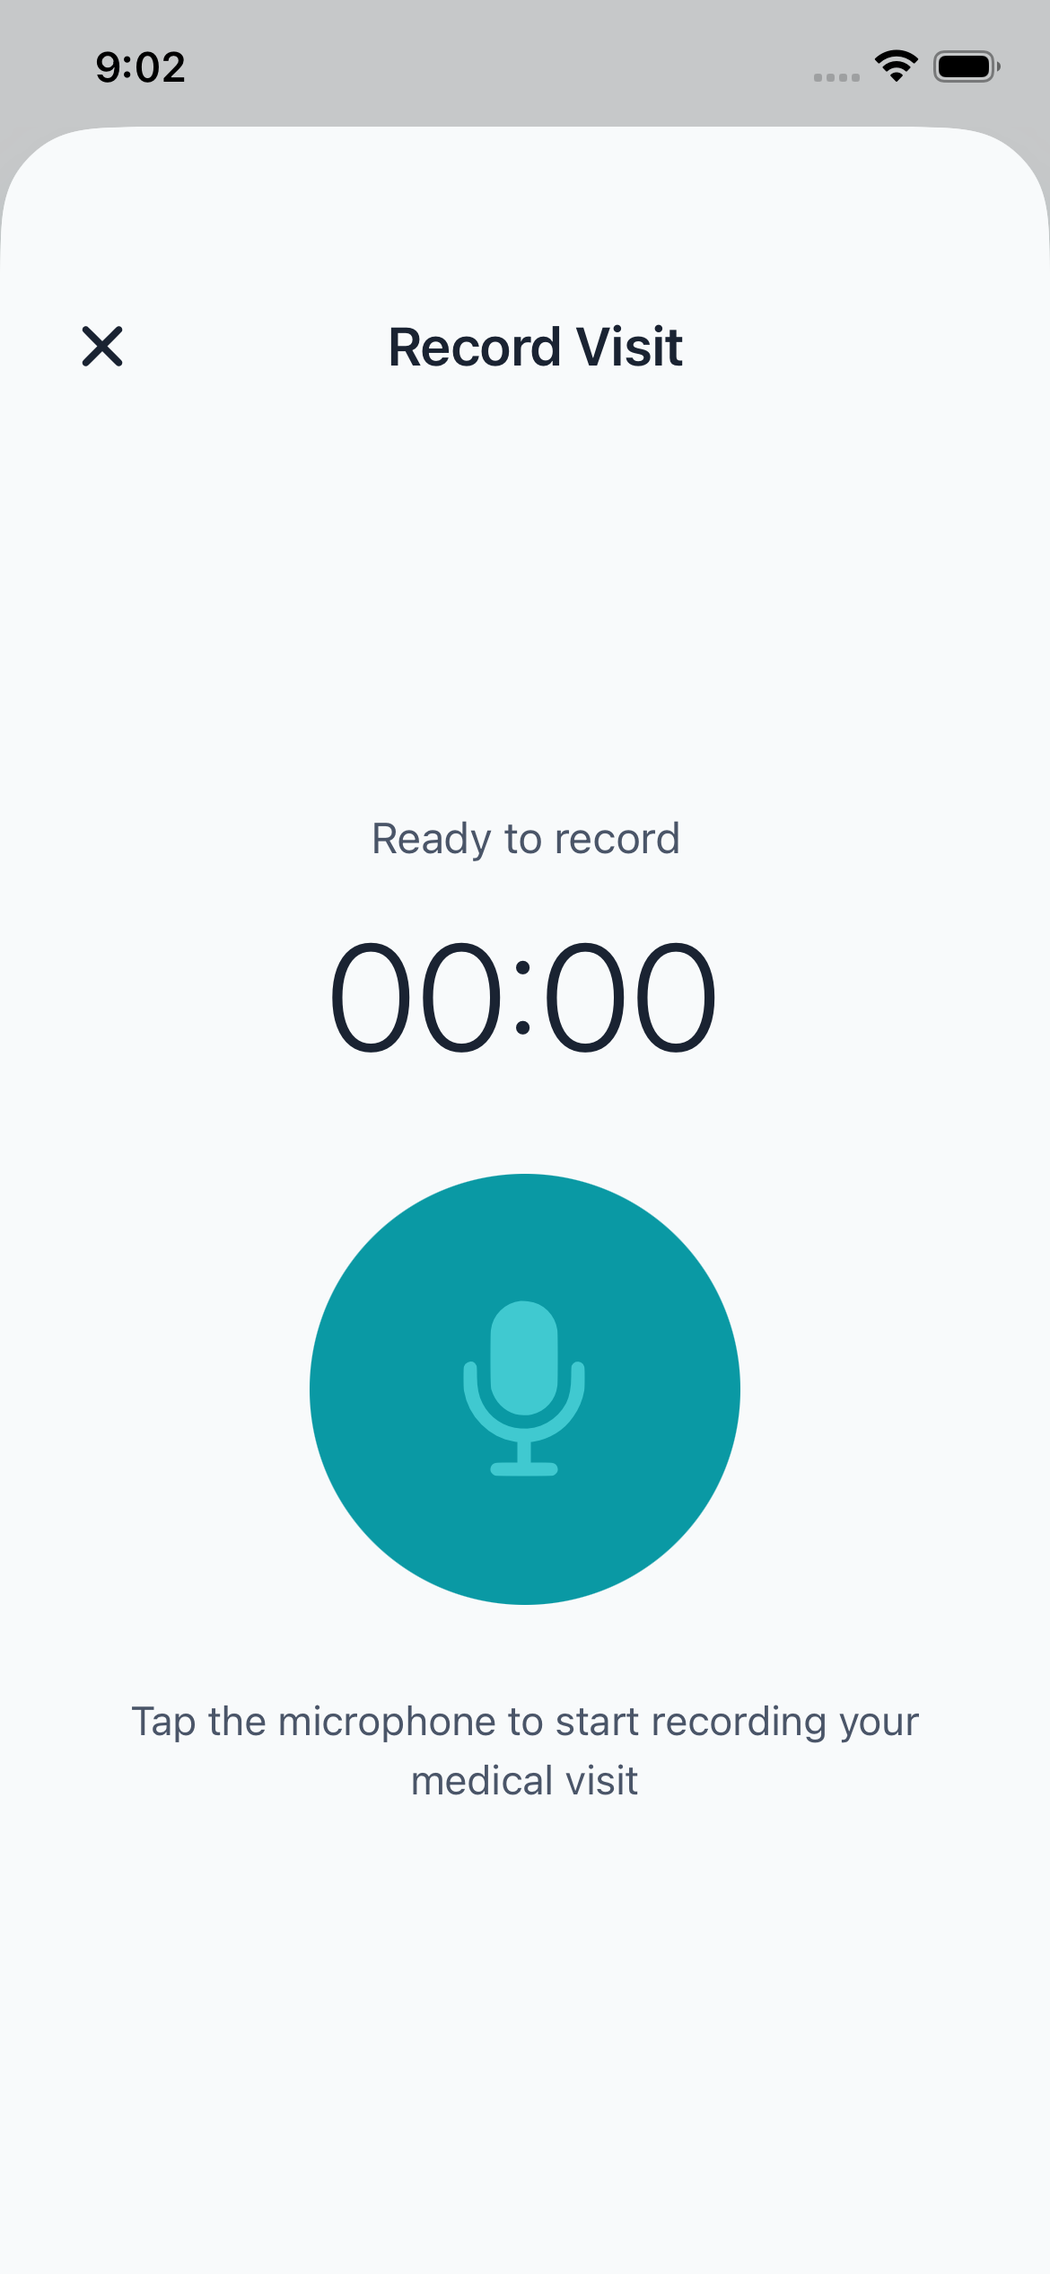
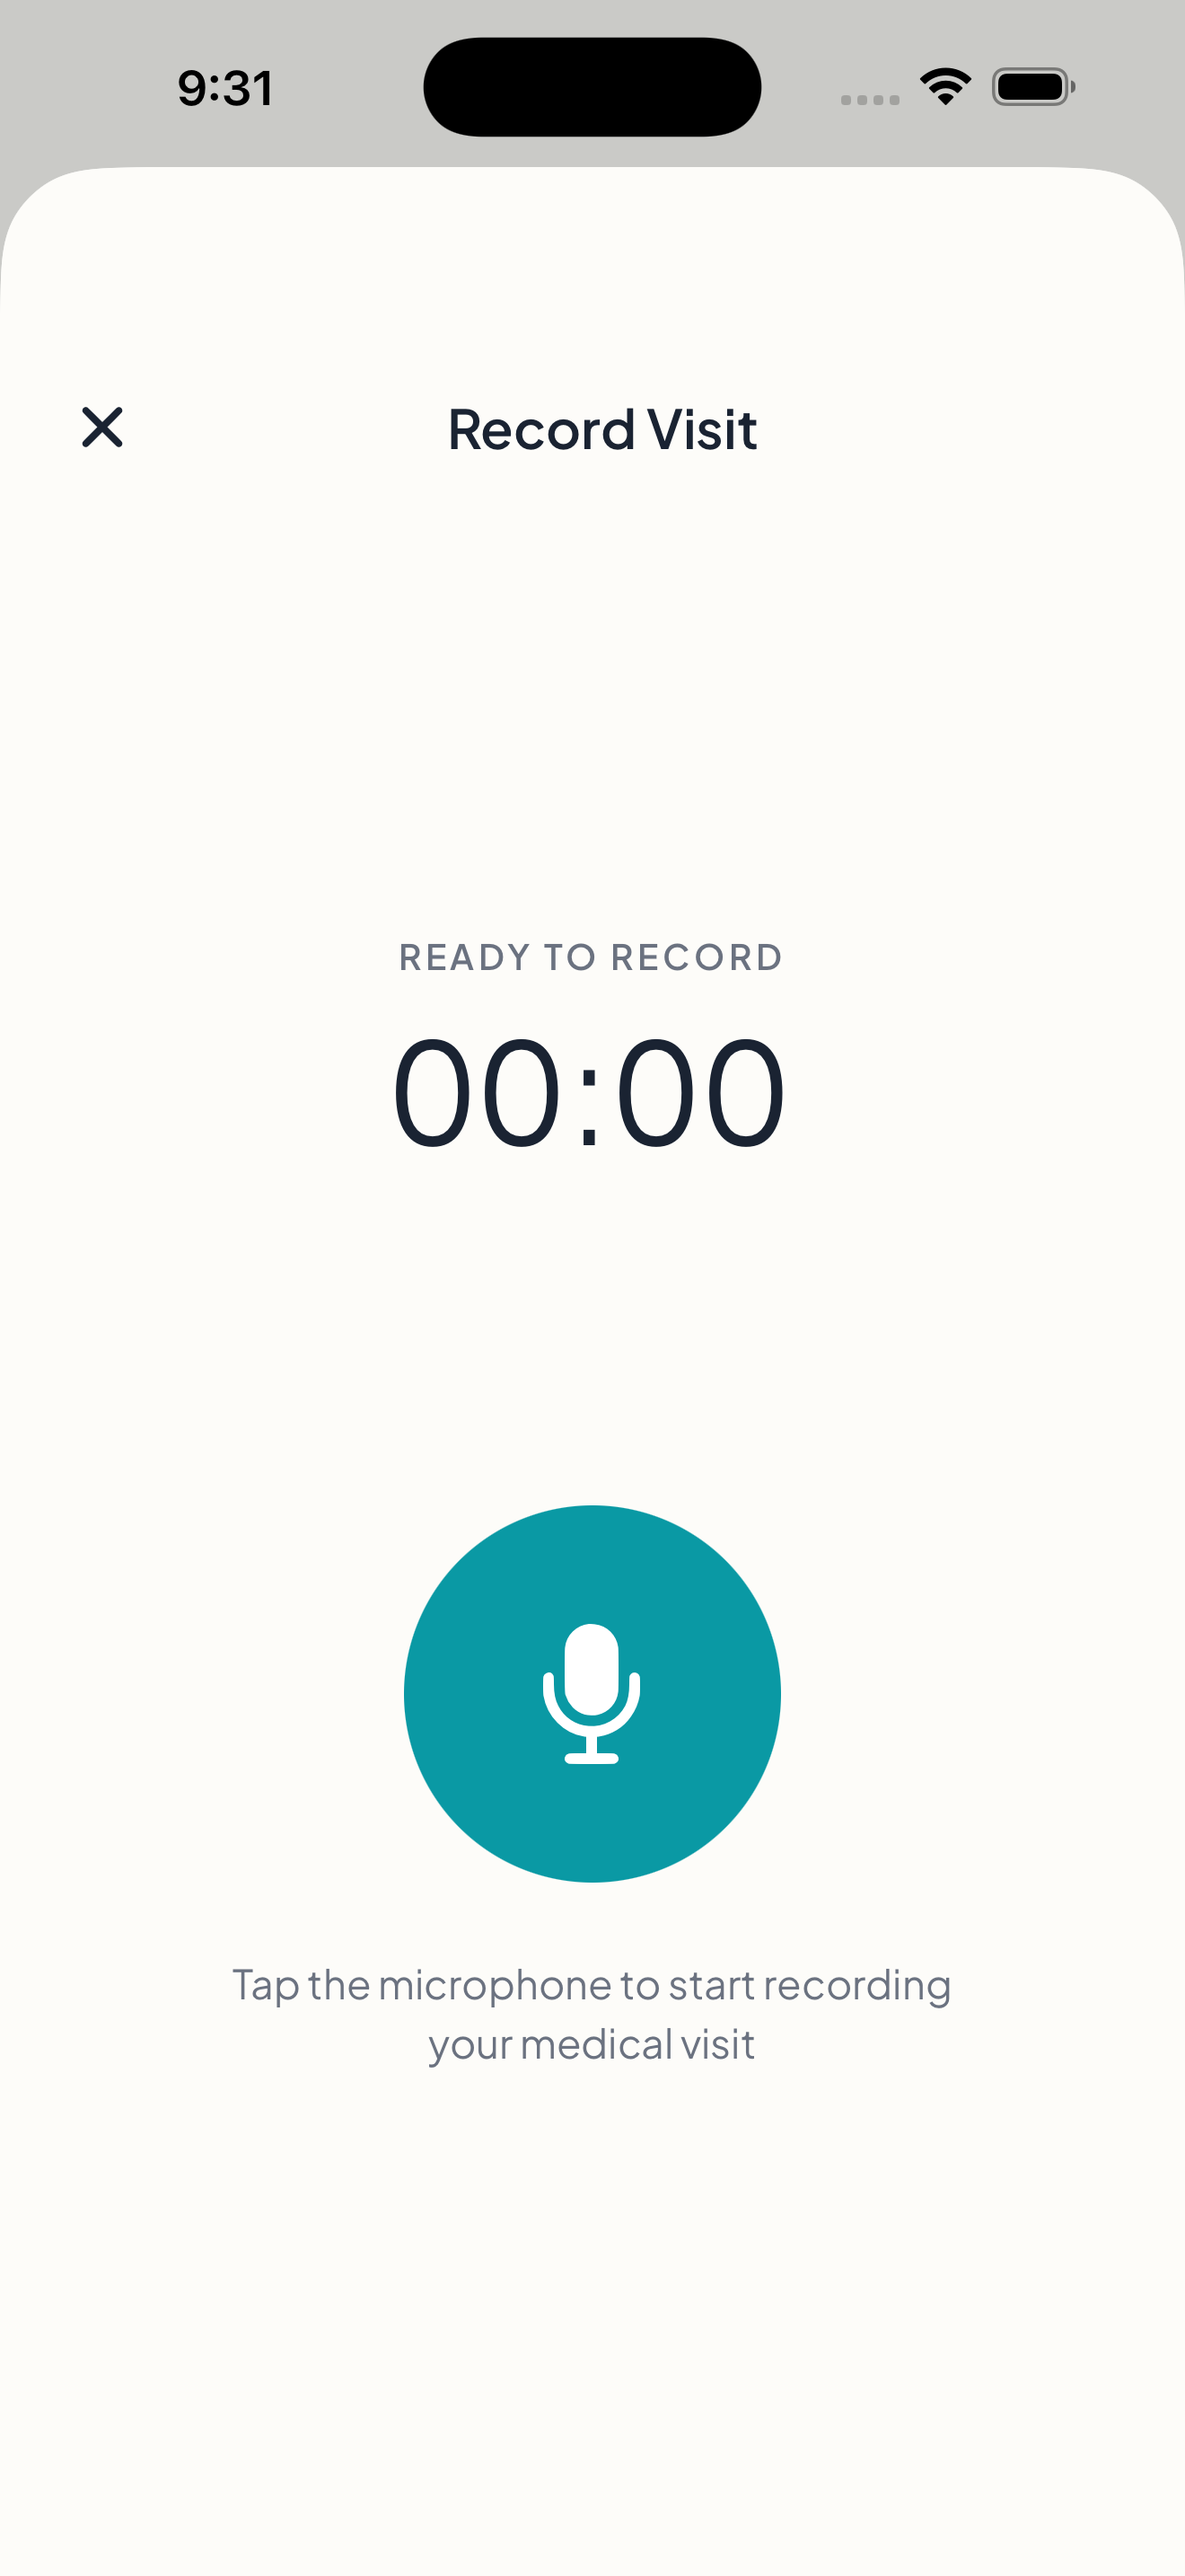
Update app screenshots with fresh simulator captures for landing page and App Store
Replaces all 11 outdated app screenshots in web-portal/public/images with current
iPhone 17 Pro Max simulator captures. Adds 6 device-framed App Store mockups with
marketing captions to docs/app-store-screenshots/.

diff --git a/docs/app-store-screenshots/README.md b/docs/app-store-screenshots/README.md
@@ -1,0 +1,35 @@
+# LumiMD App Store Screenshots
+
+App Store-ready device-framed screenshot mockups for LumiMD (6.7" iPhone display).
+
+## Generated Mockups
+
+All mockups are **1320x2868 pixels** (Apple's required 6.7" display size).
+
+| # | Filename | Caption | Subtitle |
+|---|----------|---------|----------|
+| 1 | `mockup_01_home.png` | Your Health, At a Glance | Track visits, meds, and action items in one place |
+| 2 | `mockup_02_record.png` | Record Any Medical Visit | One tap to capture your doctor's appointment |
+| 3 | `mockup_03_summary.png` | AI-Powered Visit Summaries | Understand your visit in plain language |
+| 4 | `mockup_04_lumibot.png` | Walk Through Your Visit | LumiBot explains diagnoses and medication changes |
+| 5 | `mockup_05_schedule.png` | Never Miss a Medication | Morning and evening medication reminders |
+| 6 | `mockup_06_caregiver.png` | Keep Family in the Loop | Monitor loved ones' health from anywhere |
+
+## Design Features
+
+- **Gradient Background**: LumiMD brand teal (#0A99A4) to lighter teal (#40C9D0)
+- **Typography**: 
+  - Captions: Bold, 70px white text
+  - Subtitles: 32px white text
+- **Device Framing**: Subtle rounded-rect phone bezel with shadow effect
+- **Layout**: Clean, professional design matching top health apps on the App Store
+
+## Usage
+
+These mockups are ready for upload to Apple App Store Connect. Each image includes:
+- Marketing caption at the top
+- Descriptive subtitle
+- Full-screen app screenshot
+- Device frame for context
+
+All mockups maintain consistent styling and professional quality suitable for app marketplace promotion.
